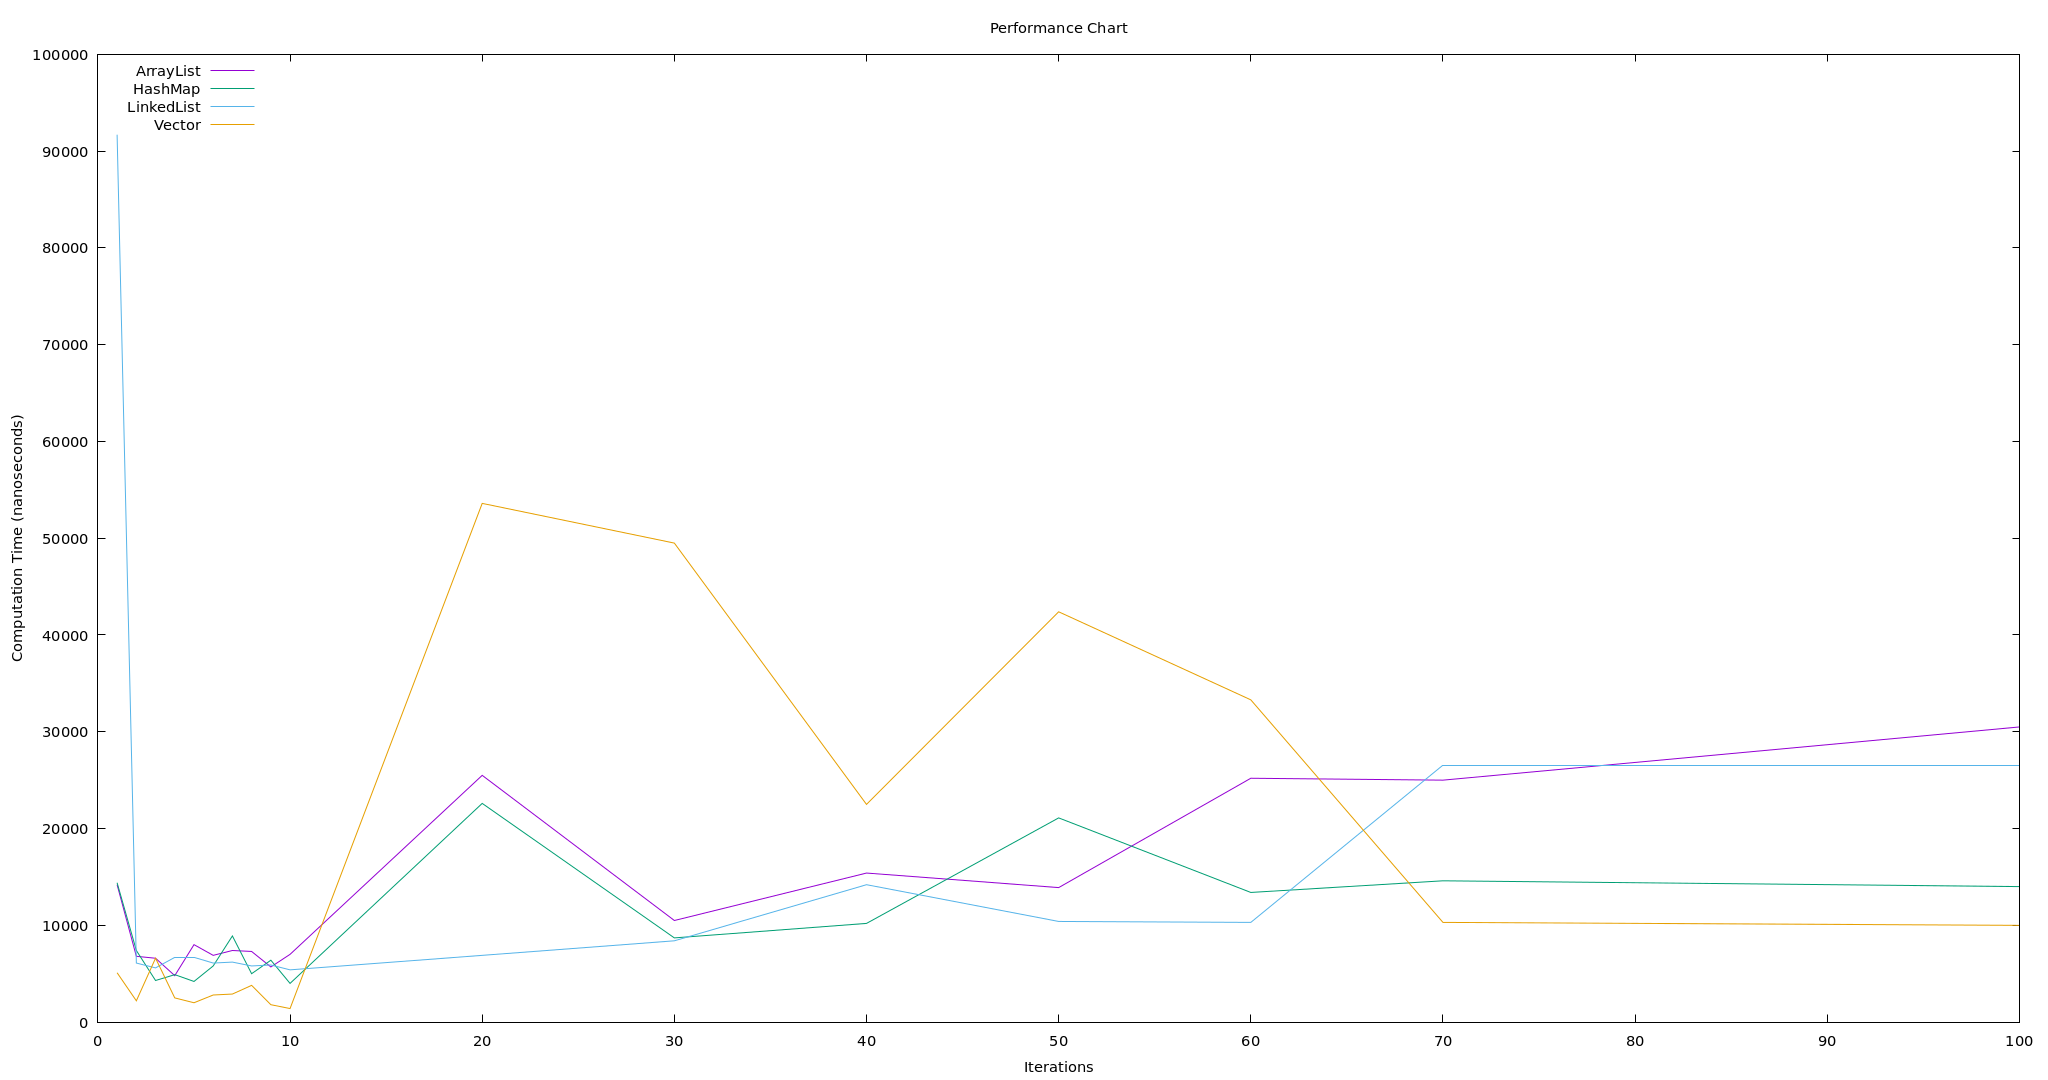
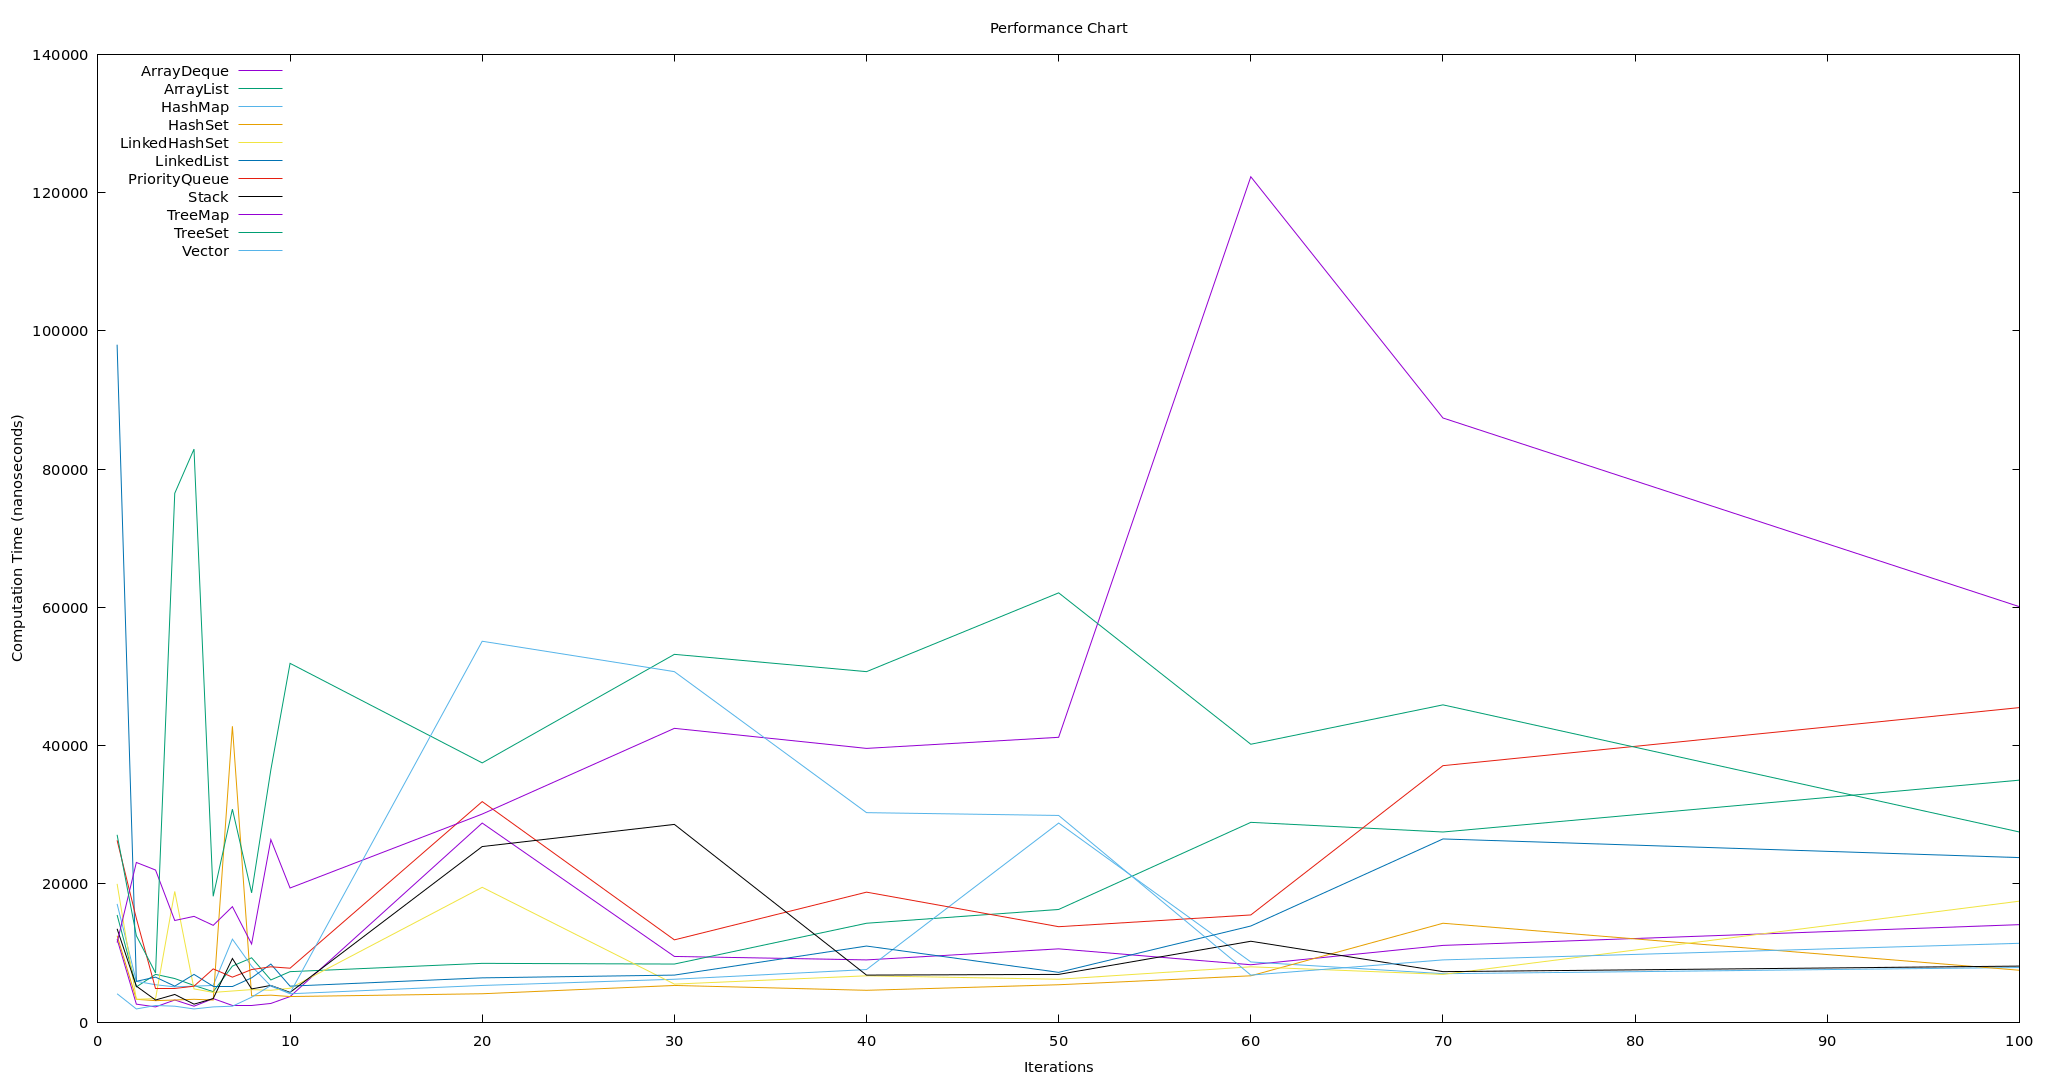
update

diff --git a/src/test/java/org/example/MathBenchmarkTest.java b/src/test/java/org/example/MathBenchmarkTest.java
@@ -24,7 +24,7 @@ public class MathBenchmarkTest {
     private static final int[] ITERATIONS = {1, 2, 3, 4, 5, 6, 7, 8, 9, 10
             , 20, 30, 40, 50, 60, 70,
             100, 1000,
-            100_000, 1_000_000, 100_000_000
+            100_000, 1_000_000
 
     };
     private static final Vector<Integer> arrayList = new Vector<>(100_000_000);
@@ -61,7 +61,7 @@ public class MathBenchmarkTest {
             writer = new FileWriter("performance_data.txt");
             Integer integer = collect.keySet().stream().findFirst().orElseThrow();
             List<BenchmarkResult> collect1 = collect.get(integer);
-            List<String> collect2 = collect1.stream().map(BenchmarkResult::operationName).sorted().collect(Collectors.toList());
+            List<String> collect2 = collect1.stream().map(BenchmarkResult::operationName).sorted().toList();
 
             StringJoiner stringJoiner = new StringJoiner(", ");
 
@@ -239,6 +239,78 @@ public class MathBenchmarkTest {
         }
     }
 
+    @Test
+    public void testHashSetSpeed() {
+        int length = ITERATIONS.length;
+        for (int j = 0; j < length; j++) {
+            HashSet<Integer> vx = new HashSet<>();
+            Object[] objects = Arrays.copyOfRange(arrayList.toArray(), 0, ITERATIONS[j]);
+            long startTime = System.nanoTime();
+            for (int i = 0; i < objects.length; i++) {
+                vx.add((Integer) objects[i]);
+            }
+            long endTime = System.nanoTime();
+            long result = endTime - startTime;
+            System.out.println("Execution time for HashSet: " + result + " @ " + ITERATIONS[j]);
+            vx.clear();
+            out.add(new BenchmarkResult(ITERATIONS[j], result, "HashSet"));
+        }
+    }
+
+    @Test
+    public void testTreeSetSpeed() {
+        int length = ITERATIONS.length;
+        for (int j = 0; j < length; j++) {
+            SortedSet<Integer> vx = new TreeSet<>();
+            Object[] objects = Arrays.copyOfRange(arrayList.toArray(), 0, ITERATIONS[j]);
+            long startTime = System.nanoTime();
+            for (int i = 0; i < objects.length; i++) {
+                vx.add((Integer) objects[i]);
+            }
+            long endTime = System.nanoTime();
+            long result = endTime - startTime;
+            System.out.println("Execution time for TreeSet: " + result + " @ " + ITERATIONS[j]);
+            vx.clear();
+            out.add(new BenchmarkResult(ITERATIONS[j], result, "TreeSet"));
+        }
+    }
+
+    @Test
+    public void testStackSpeed() {
+        int length = ITERATIONS.length;
+        for (int j = 0; j < length; j++) {
+            Stack<Integer> vx = new Stack<>();
+            Object[] objects = Arrays.copyOfRange(arrayList.toArray(), 0, ITERATIONS[j]);
+            long startTime = System.nanoTime();
+            for (int i = 0; i < objects.length; i++) {
+                vx.add((Integer) objects[i]);
+            }
+            long endTime = System.nanoTime();
+            long result = endTime - startTime;
+            System.out.println("Execution time for Stack: " + result + " @ " + ITERATIONS[j]);
+            vx.clear();
+            out.add(new BenchmarkResult(ITERATIONS[j], result, "Stack"));
+        }
+    }
+
+    @Test
+    public void testLinkedHashSetSpeed() {
+        int length = ITERATIONS.length;
+        for (int j = 0; j < length; j++) {
+            LinkedHashSet<Integer> vx = new LinkedHashSet<>();
+            Object[] objects = Arrays.copyOfRange(arrayList.toArray(), 0, ITERATIONS[j]);
+            long startTime = System.nanoTime();
+            for (int i = 0; i < objects.length; i++) {
+                vx.add((Integer) objects[i]);
+            }
+            long endTime = System.nanoTime();
+            long result = endTime - startTime;
+            System.out.println("Execution time for LinkedHashSet: " + result + " @ " + ITERATIONS[j]);
+            vx.clear();
+            out.add(new BenchmarkResult(ITERATIONS[j], result, "LinkedHashSet"));
+        }
+    }
+
 
     @Test
     public void testLinkedListSpeed() {
@@ -255,6 +327,60 @@ public class MathBenchmarkTest {
             System.out.println("Execution time for LinkedList: " + result + " @ " + ITERATIONS[j]);
             vx.clear();
             out.add(new BenchmarkResult(ITERATIONS[j], result, "LinkedList"));
+        }
+    }
+
+    @Test
+    public void testPriorityQueueSpeed() {
+        int length = ITERATIONS.length;
+        for (int j = 0; j < length; j++) {
+            PriorityQueue<Integer> vx = new PriorityQueue<>();
+            Object[] objects = Arrays.copyOfRange(arrayList.toArray(), 0, ITERATIONS[j]);
+            long startTime = System.nanoTime();
+            for (int i = 0; i < objects.length; i++) {
+                vx.add((Integer) objects[i]);
+            }
+            long endTime = System.nanoTime();
+            long result = endTime - startTime;
+            System.out.println("Execution time for PriorityQueue: " + result + " @ " + ITERATIONS[j]);
+            vx.clear();
+            out.add(new BenchmarkResult(ITERATIONS[j], result, "PriorityQueue"));
+        }
+    }
+
+    @Test
+    public void testTreeMapSpeed() {
+        int length = ITERATIONS.length;
+        for (int j = 0; j < length; j++) {
+            TreeMap<Integer, Integer> vx = new TreeMap<>();
+            Object[] objects = Arrays.copyOfRange(arrayList.toArray(), 0, ITERATIONS[j]);
+            long startTime = System.nanoTime();
+            for (int i = 0; i < objects.length; i++) {
+                vx.put(i, (Integer) objects[i]);
+            }
+            long endTime = System.nanoTime();
+            long result = endTime - startTime;
+            System.out.println("Execution time for TreeMap: " + result + " @ " + ITERATIONS[j]);
+            vx.clear();
+            out.add(new BenchmarkResult(ITERATIONS[j], result, "TreeMap"));
+        }
+    }
+
+    @Test
+    public void testArrayDequeSpeed() {
+        int length = ITERATIONS.length;
+        for (int j = 0; j < length; j++) {
+            ArrayDeque<Integer> vx = new ArrayDeque<>();
+            Object[] objects = Arrays.copyOfRange(arrayList.toArray(), 0, ITERATIONS[j]);
+            long startTime = System.nanoTime();
+            for (int i = 0; i < objects.length; i++) {
+                vx.add((Integer) objects[i]);
+            }
+            long endTime = System.nanoTime();
+            long result = endTime - startTime;
+            System.out.println("Execution time for ArrayDeque: " + result + " @ " + ITERATIONS[j]);
+            vx.clear();
+            out.add(new BenchmarkResult(ITERATIONS[j], result, "ArrayDeque"));
         }
     }
 
